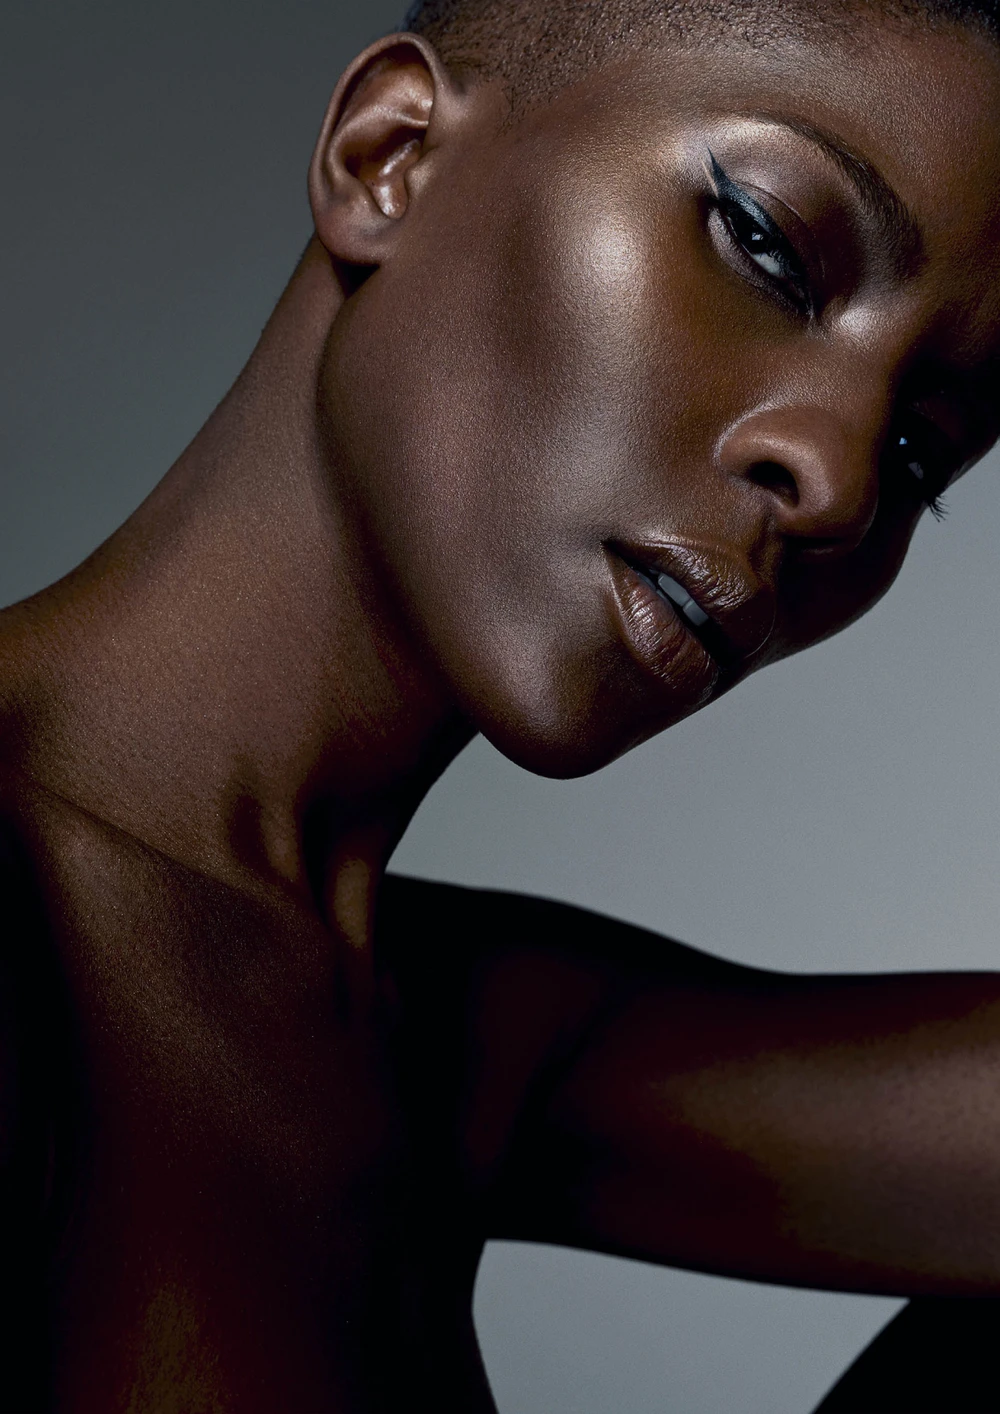
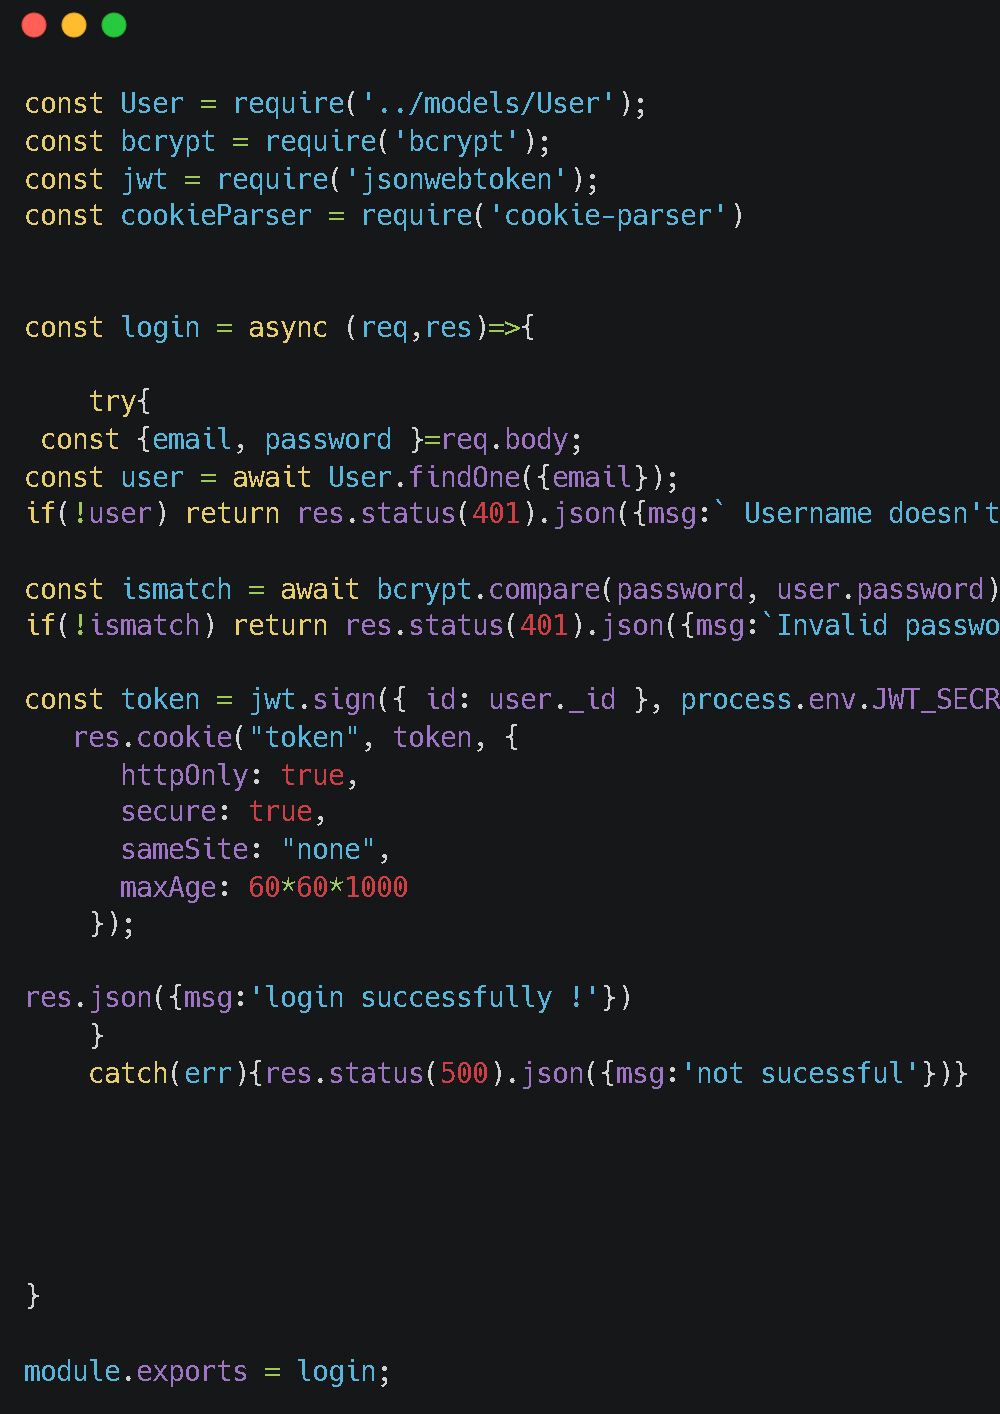
updates in skills page

diff --git a/src/components/Scene.jsx b/src/components/Scene.jsx
@@ -64,12 +64,12 @@ renderer.shadowMap.type = THREE.PCFSoftShadowMap;
       
 
 
-// 1. Ambient Light
+// 1. Ambient Light (Ambient lights do not have direction, so no helper applies)
 const ambientLight = new THREE.AmbientLight(0xfff8f0, 0.45);
 scene.add(ambientLight);
 
 // 2. Strong Right Light (UPDATED with normalBias & tighter bounds)
-const rightLight = new THREE.DirectionalLight(0xffecd6, 4.2);
+const rightLight = new THREE.DirectionalLight(0xffecd6, 5);
 rightLight.position.set(4.5, 3.5, 2.5);
 rightLight.castShadow = true;
 
@@ -89,10 +89,20 @@ rightLight.shadow.camera.bottom = -3;
 
 scene.add(rightLight);
 
+// Helper for Right Light (Color: Orange / 0xff9900)
+// const rightLightHelper = new THREE.DirectionalLightHelper(rightLight, 1, 0xff9900);
+// scene.add(rightLightHelper);
+
+
 // 3. Strong Top Light
-const topLight = new THREE.DirectionalLight(0xffffff, 2.8);
+const topLight = new THREE.DirectionalLight(0xFFFBE5, 2.8);
 topLight.position.set(0, 7, 1);
 scene.add(topLight);
+
+// Helper for Top Light (Color: Cyan / 0x00ffff)
+// const topLightHelper = new THREE.DirectionalLightHelper(topLight, 1, 0x00ffff);
+// scene.add(topLightHelper);
+
 
 // 4. Floor Shadow Plane
 const shadowPlane = new THREE.Mesh(

diff --git a/src/Pages/Skills.jsx b/src/Pages/Skills.jsx
@@ -122,7 +122,7 @@ const Skills = () => {
                 <p className="text-lg">Featured Skills</p>
               </div>
               <div className="down">
-                <p className="text-2xl">Lorem ipsum dolor sit amet consectetur adipisicing elit. Natus veritatis minus, magnam quod corrupti esse ex id recusandae assumenda. Incidunt.</p>
+                <p className="text-2xl">Specializing in interactive 3D web experiences and scalable full-stack applications. I bridge the gap between creative visual design and engineering using Three.js, GSAP, and React to craft fluid, performance driven digital products.</p>
               </div>
 
 

diff --git a/index.html b/index.html
@@ -8,7 +8,7 @@
 <link rel="preconnect" href="https://fonts.gstatic.com" crossorigin>
 <link href="https://fonts.googleapis.com/css2?family=Bebas+Neue&family=Dancing+Script:wght@400..700&family=Pacifico&display=swap" rel="stylesheet">
   </head>
-  <body>
+  <body class="loading">
     <div id="root"></div>
     <script type="module" src="/src/main.jsx"></script>
   </body>
